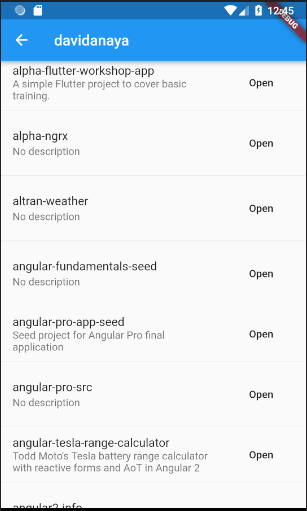
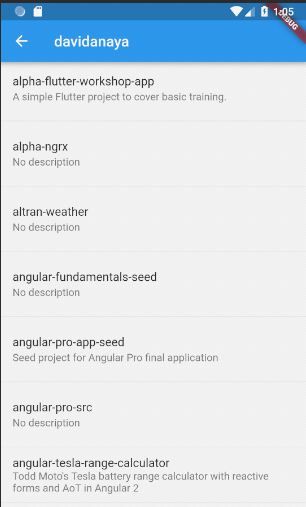
feat(open-repo): open a repo when clicking on it

diff --git a/lib/src/widgets/repo_tile.dart b/lib/src/widgets/repo_tile.dart
@@ -1,5 +1,6 @@
 import 'package:alpha_flutter_workshop_app/src/models/repo.dart';
 import 'package:flutter/material.dart';
+import 'package:url_launcher/url_launcher.dart';
 
 class RepoTile extends StatelessWidget {
   final Repo repo;
@@ -12,9 +13,21 @@ class RepoTile extends StatelessWidget {
         ListTile(
           title: Text(repo.name),
           subtitle: Text(repo.description),
+          trailing: MaterialButton(
+            onPressed: () => _launchURL(repo.htmlUrl),
+            child: Text('Open'),
+          ),
         ),
         Divider()
       ],
     );
+  }
+
+  _launchURL(String url) async {
+    if (await canLaunch(url)) {
+      await launch(url);
+    } else {
+      throw 'Could not launch $url';
+    }
   }
 }

diff --git a/exercises/7-open-url-repo.md b/exercises/7-open-url-repo.md
@@ -1,0 +1,23 @@
+## 7-open-url-repo
+
+Add a new feature, when clicking on a button in one of the repos, open it in a web broser.
+
+### Objectives
+
+Add a button at the end of each repo tile. On tap, open a web browser and load the url for the repo.
+
+1. You can use the dart library [url_launcher](https://pub.dartlang.org/packages/url_launcher).
+
+2. Add a button to each repo, you can use the named property `trailing`. Use a `MaterialButton` with `onPressed` listener to open the url.
+
+The repos screen should look like this:
+
+![open-url](./images/7-open-url.png)
+
+### Widgets required
+
+You just need a `MaterialButton` to add the button to the tile.
+
+### Pay attention to
+
+Follow the readme in the pub library to understand how to use the plugin. Remember to update the pubspec.yaml. Sometimes you need to hot restart the app when you add new libraries.

diff --git a/README.md b/README.md
@@ -27,3 +27,5 @@ You can click on each branch below to get to each exercise:
 [5-navigation](./exercises/5-navigation.md)
 
 [6-member-repos](./exercises/6-member-repos.md)
+
+[7-open-url-repo](./exercises/7-open-url.md)
